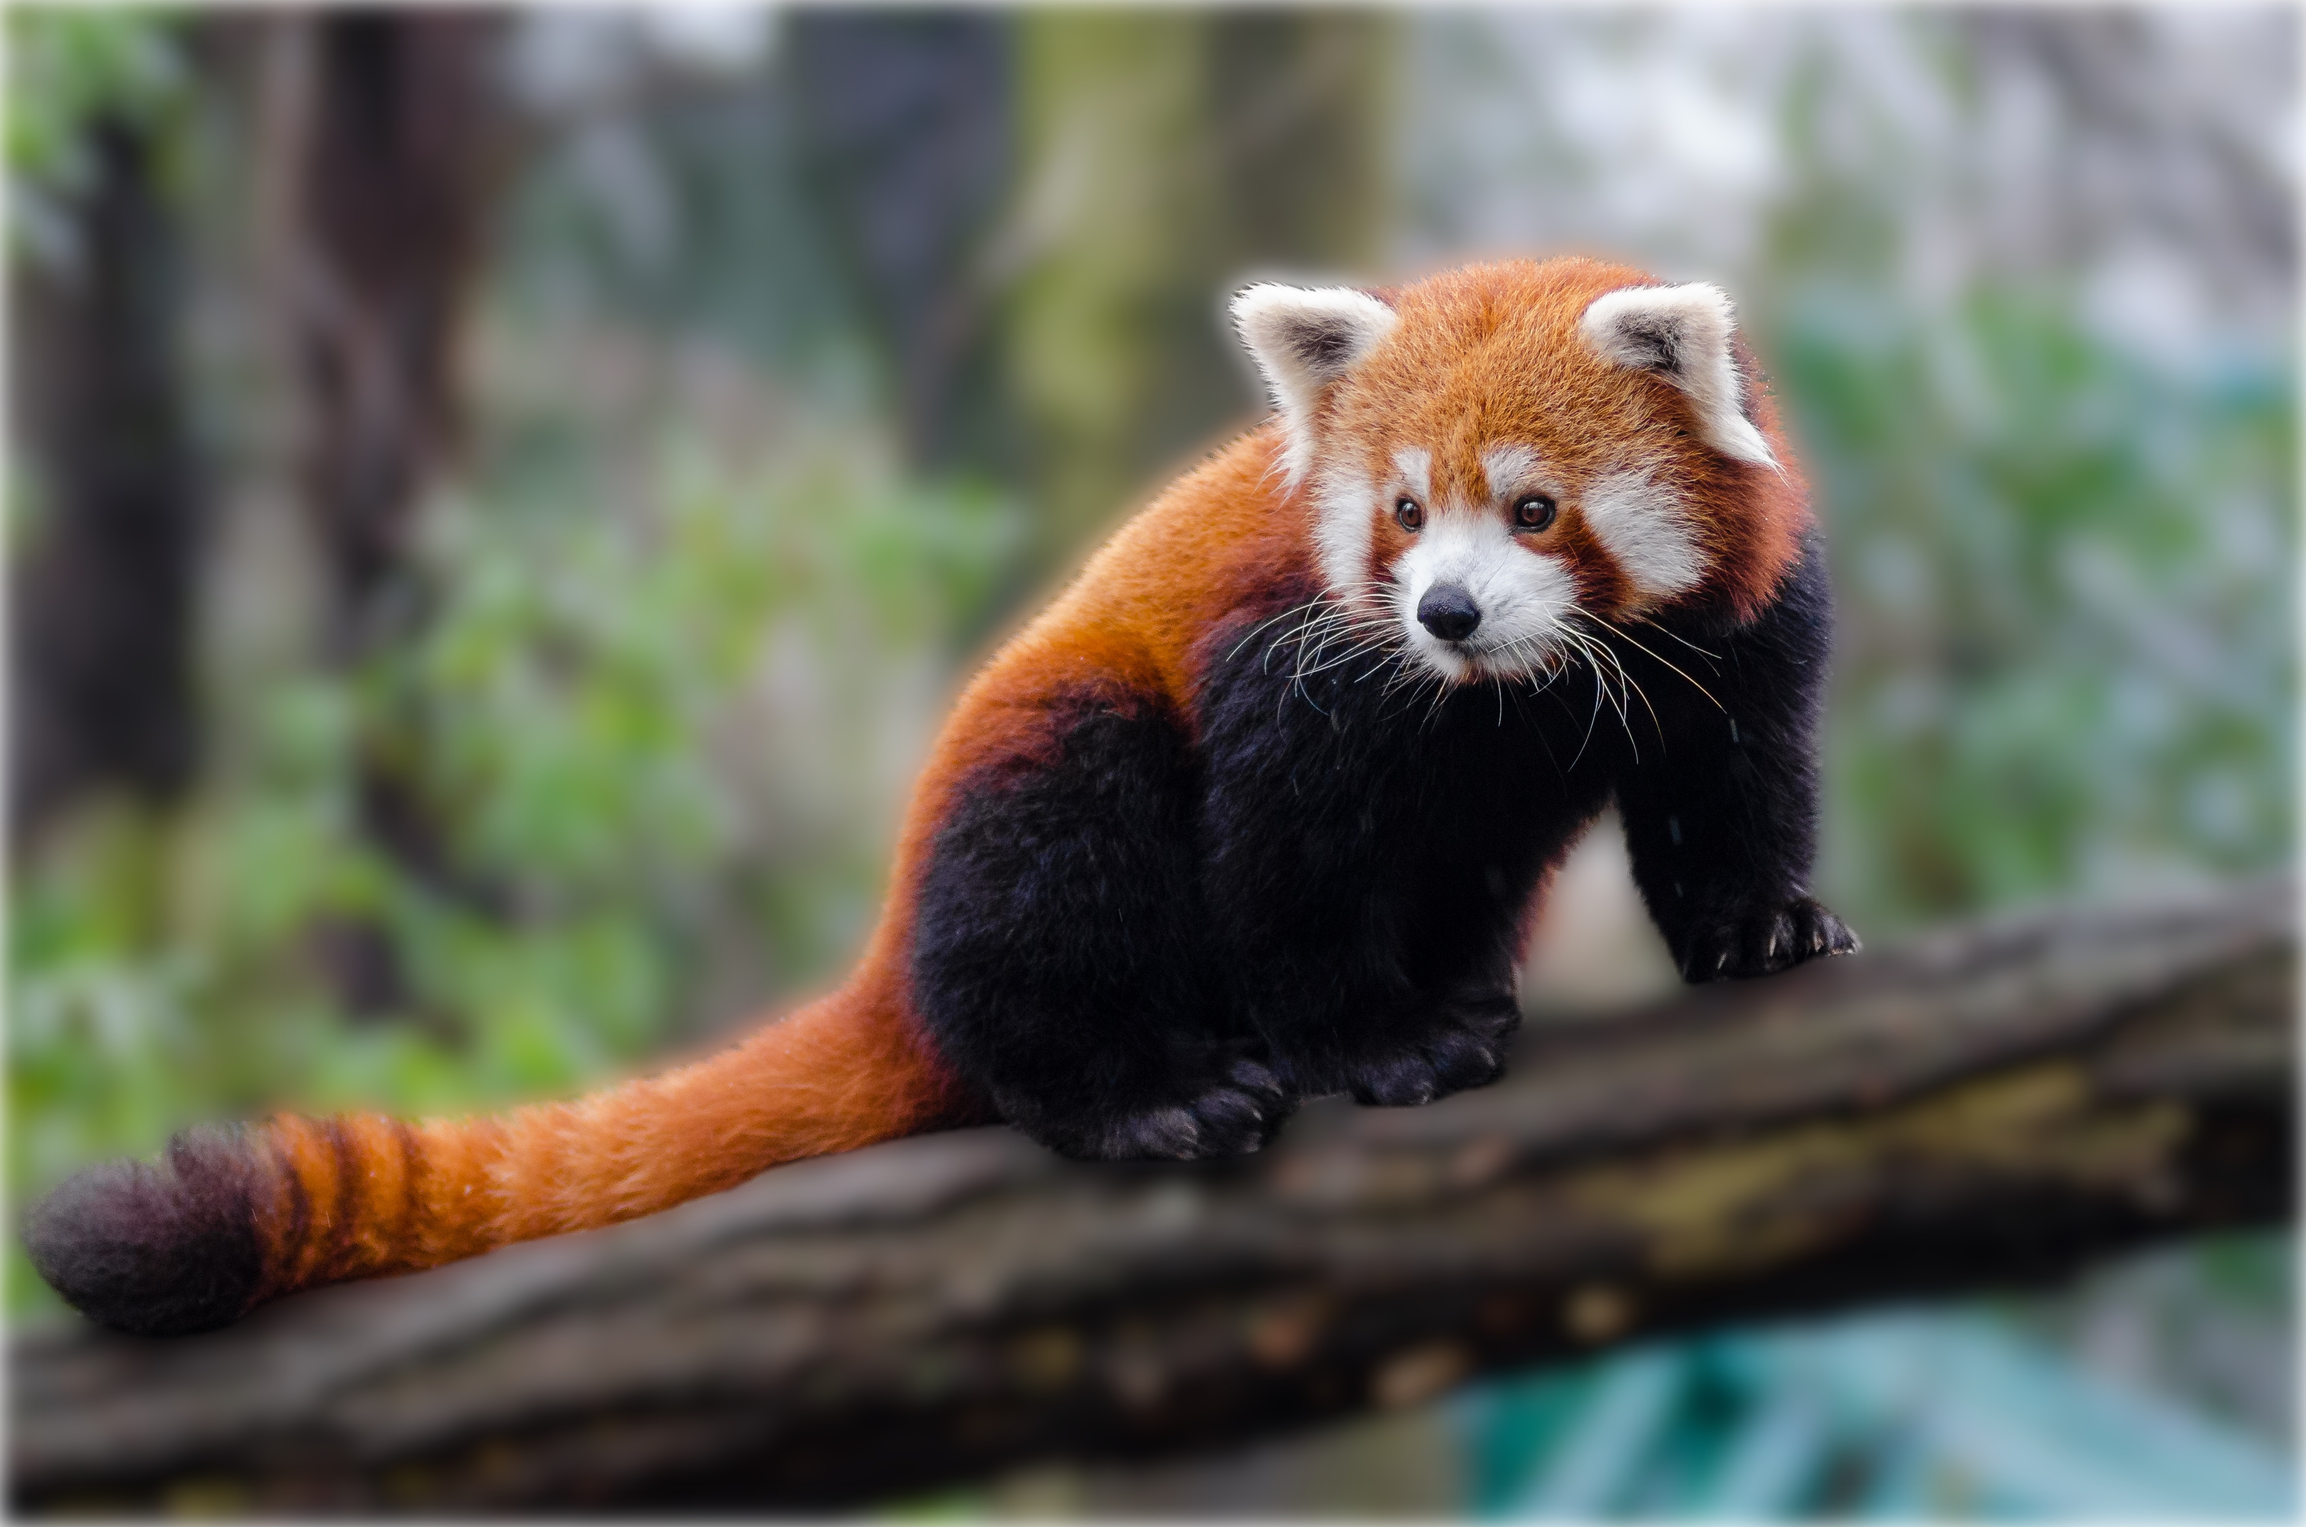
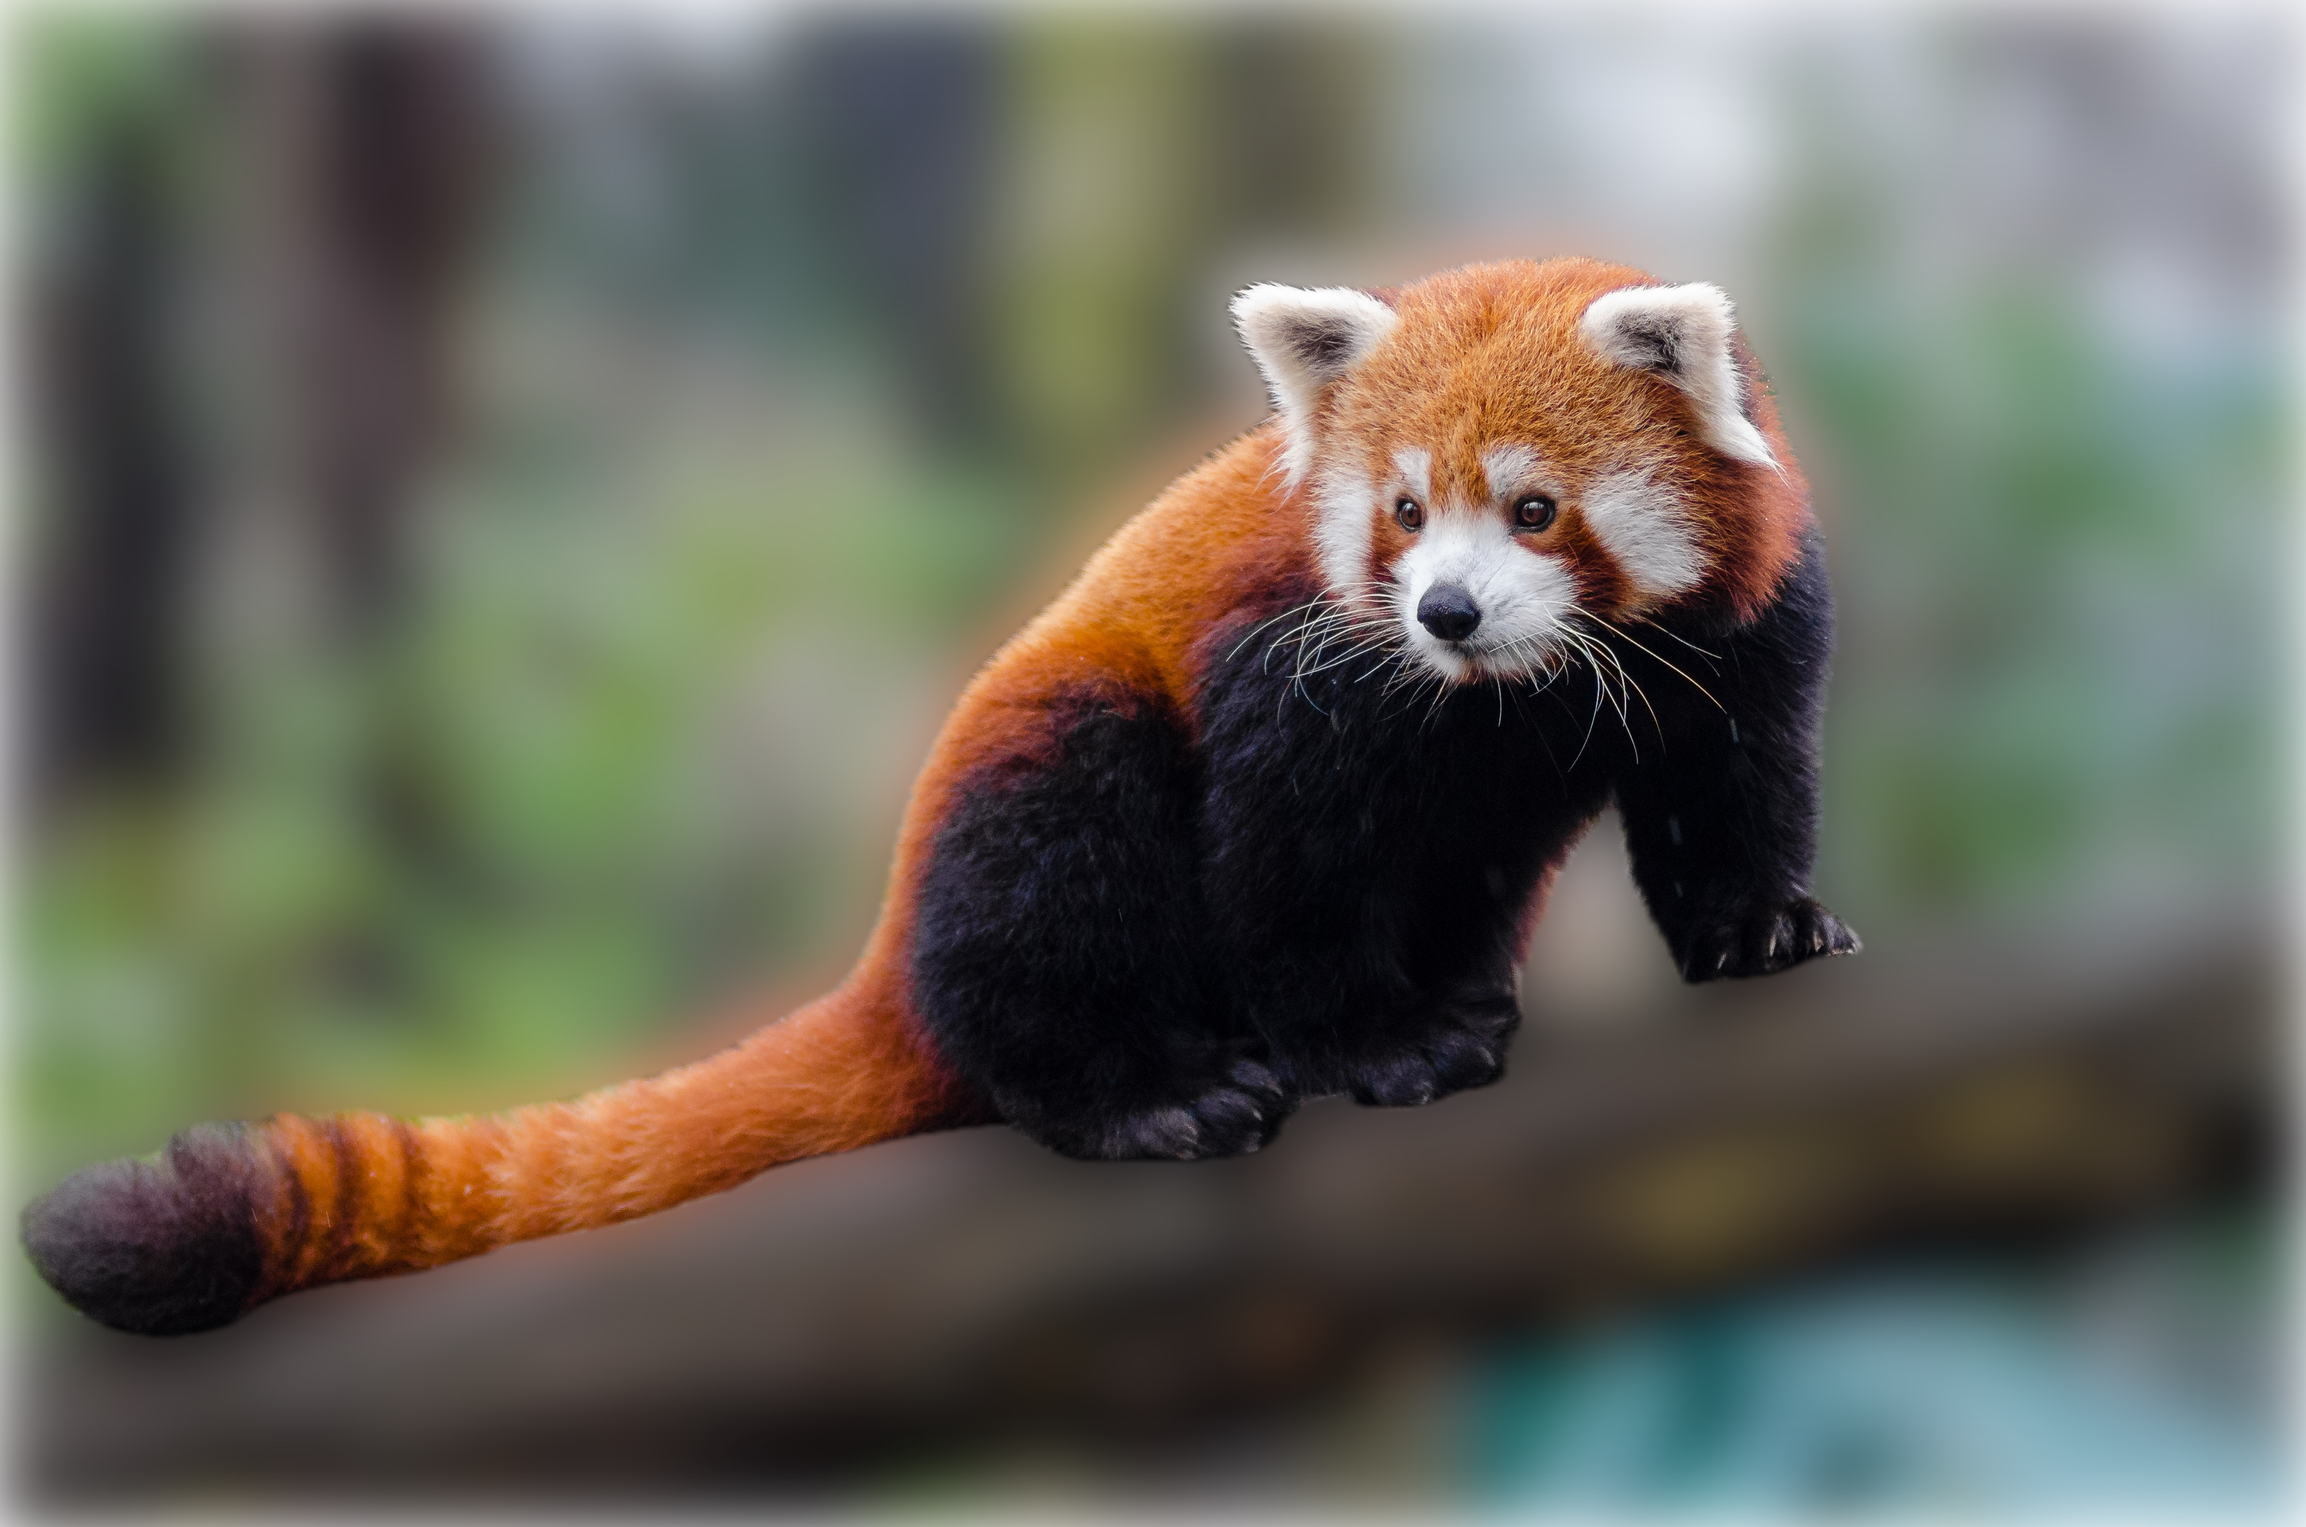
docs: full README sweep + hardcore lint + filter-showcase wired into make release
Every removed-flag reference in README (--feather/--threshold/--mask-only/
--scale/--position/--channels) replaced with the --filter equivalent. New
scripts/lint-readme.sh fails the build if any removed flag re-appears
(allows lines that explicitly document the removal). Wired into
make release as the first gate.

scripts/make-filter-showcase.sh added as a make target (filter-showcase);
make release now regenerates every showcase + per-filter asset against
the freshly-installed binary on every release.

Showcase 3 (sticker) now uses a dark navy bg so the white halo + drop
shadow are clearly visible against the plate (white halo was invisible
on white bg). Outline bumped to width=30, shadow to blur=40/offset=24,24/
opacity=0.85.

Showcase 4 (vintage) reworked as a real fg/bg split: bg gets full sepia
+ darken + desaturate (old-photo backdrop), fg keeps original colour
(modern subject in front), then a composite vignette. Demonstrates the
core bgbgone trick - per-layer transforms.

diff --git a/README.md b/README.md
@@ -122,37 +122,30 @@ bgbgone mona-lisa.jpg --bg image:./hokusai-great-wave.jpg    -o wave.jpg
 bgbgone mona-lisa.jpg --bg image:./mars-curiosity.jpg        -o mars.jpg
 ```
 
-### Edge refinement
+### Edge refinement (via `--filter`)
 
-`--feather <px>` softens the matte edge. `--crop` tight-crops to the subject's bounding box. `--padding` and `--crop-margin` add breathing room. `--roi` limits detection to a region. `--scale` and `--position` place the subject on the canvas. `--shadow` and `--shadow-type drop` add a shadow under the cutout. `--semitransparency false` hardens the matte so soft edges become opaque. `--mask-only` emits the grayscale alpha matte.
-
-![feather progression (0 to 16 px), --crop, --padding, --shadow, --mask-only](docs/images/showcase-edges.png)
+Mask shape and edge softness are tuned via the `--filter` chain (the old `--feather` / `--threshold` / `--mask-only` / `--scale` / `--position` flags were hard-removed in v1.0.0). `--crop` tight-crops to the subject's bounding box. `--padding` and `--crop-margin` add breathing room. `--roi` limits detection to a region. `--shadow` and `--shadow-type drop` add a shadow under the cutout. `--semitransparency false` hardens the matte so soft edges become opaque.
 
 ```bash
-bgbgone in.jpg --bg color:white --feather 8           -o soft.png
-bgbgone in.jpg --threshold 0.55                       -o crisper.png
-bgbgone in.jpg --crop                                 -o tight.png
-bgbgone in.jpg --crop --padding 10%                   -o tight-padded.png
-bgbgone in.jpg --crop --crop-margin "5% 10%"          -o api-padded.png
-bgbgone in.jpg --crop --crop-margin "5% 10% 15% 20%"  -o four-sided.png
-bgbgone in.jpg --roi "0% 0% 100% 80%"                 -o top-region.png
-bgbgone in.jpg --scale 75% --position center          -o centered.png
-bgbgone in.jpg --scale 50% --position "25% 75%"       -o lower-left.png
-bgbgone in.jpg --bg color:white --shadow              -o dropshadow.png
-bgbgone in.jpg --shadow-type drop --shadow-opacity 25 -o soft-shadow.png
-bgbgone in.jpg --shadow-type none                     -o no-shadow.png
-bgbgone in.jpg --semitransparency false               -o hard-edge.png
-bgbgone in.jpg --mask-only                            -o matte.png
-bgbgone in.jpg --channels alpha                       -o matte.png   # same as --mask-only
+bgbgone in.jpg --bg color:white --filter "mask:feather=8"      -o soft.png
+bgbgone in.jpg --filter "mask:threshold=0.55"                  -o crisper.png
+bgbgone in.jpg --crop                                          -o tight.png
+bgbgone in.jpg --crop --padding 10%                            -o tight-padded.png
+bgbgone in.jpg --crop --crop-margin "5% 10%"                   -o api-padded.png
+bgbgone in.jpg --crop --crop-margin "5% 10% 15% 20%"           -o four-sided.png
+bgbgone in.jpg --roi "0% 0% 100% 80%"                          -o top-region.png
+bgbgone in.jpg --filter "fg:scale=0.75"                        -o scaled.png
+bgbgone in.jpg --filter "fg:scale=0.5,translate=-200,200"      -o lower-left.png
+bgbgone in.jpg --bg color:white --shadow                       -o dropshadow.png
+bgbgone in.jpg --shadow-type drop --shadow-opacity 25          -o soft-shadow.png
+bgbgone in.jpg --shadow-type none                              -o no-shadow.png
+bgbgone in.jpg --semitransparency false                        -o hard-edge.png
+bgbgone in.jpg --filter "fg:matte"                             -o matte.png
+bgbgone in.jpg --filter "mask:expand=6"                        -o thicker-mask.png
+bgbgone in.jpg --filter "mask:contract=6"                      -o thinner-mask.png
 ```
 
-Closer look at the matte itself. `--mask-only` writes the grayscale alpha, and the compositor blends with that:
-
-![input, grayscale matte, composite](docs/images/mask-breakdown.png)
-
-Pixel-level zoom on the edge for `--feather 0` vs `--feather 8`:
-
-![--feather close-up](docs/images/feather-zoom.png)
+See [`docs/filters/`](docs/filters/) for the full per-filter deep-dives, and the [Filter showcase](#filter-showcase----filter-chain-in-action) section below for five end-to-end before/after examples.
 
 ### Algorithm selection
 
@@ -219,7 +212,7 @@ bgbgone team.jpg --multi --instance-naming "subject_{n:02}.{ext}" --out-dir ./pe
 
 The number of instances is decided by Vision. For tightly-grouped or touching subjects (e.g. an Apollo crew shoulder-to-shoulder) Vision returns one combined instance. For subjects with visible spatial gaps you get one file per subject.
 
-`--multi` is file-output only: it needs a file input stem for naming, cannot read image data from stdin, and cannot be combined with `-o` or `--mask-only`. If `--out-dir` is omitted, files are written beside the input image.
+`--multi` is file-output only: it needs a file input stem for naming and cannot read image data from stdin. If `--out-dir` is omitted, files are written beside the input image.
 
 ### Structured output
 
@@ -308,12 +301,12 @@ auge --classify /tmp/cut.jpg --top 5
 
 ### Product photography: every step
 
-For each vintage product fixture: source, then `--mask-only` matte, then transparent cutout, then composed onto a PD background. Same four-step pipeline, four different products.
+For each vintage product fixture: source, then `--filter "fg:matte"` matte, then transparent cutout, then composed onto a PD background. Same four-step pipeline, four different products.
 
 ![Products: source, mask-only, cutout, composed onto a PD background](docs/images/showcase-products.png)
 
 ```bash
-bgbgone pierce-arrow-1909.jpg --mask-only                          -o matte.png
+bgbgone pierce-arrow-1909.jpg --filter "fg:matte"                  -o matte.png
 bgbgone pierce-arrow-1909.jpg                                      -o cutout.png
 bgbgone pierce-arrow-1909.jpg --bg image:nasa-aldrin-moon.jpg      -o on-moon.png
 ```
@@ -336,7 +329,7 @@ done | jq -s 'group_by(.algo) | map({algo: .[0].algo, count: length})'
 Brand-coloured profile picture, tight-cropped, soft edge, high-quality JPEG:
 
 ```bash
-bgbgone selfie.jpg --bg color:#0066cc --crop --feather 2 \
+bgbgone selfie.jpg --bg color:#0066cc --crop --filter "mask:feather=2" \
     --to jpg --quality 95 -o linkedin-avatar.jpg
 ```
 
@@ -351,7 +344,7 @@ bgbgone team-portrait.jpg --multi \
 Doc-site product shot:
 
 ```bash
-bgbgone product.heic --bg color:white --crop --feather 1 \
+bgbgone product.heic --bg color:white --crop --filter "mask:feather=1" \
     --to jpg --quality 92 -o ./docs/product-shot.jpg
 ```
 
@@ -403,40 +396,40 @@ Run `bgbgone --filters-list` to enumerate every filter with its valid layers, si
 ### 1. Colour-pop — original background goes B&W, subject keeps its colour
 
 ```bash
-bgbgone red-panda.jpg --bg "image:red-panda.jpg" --filter "bg:grayscale" -o colourpop.jpg
+bgbgone red-panda.jpg --filter "bg:grayscale" -o colourpop.jpg
 ```
 
 | Before (original photo) | After (colour-pop) |
 |---|---|
 | ![panda original](docs/images/showcase/01-panda-before.jpg) | ![panda colour-pop](docs/images/showcase/01-panda-colourpop.jpg) |
 
-The trick: pass the source photo as **both subject AND background plate** (`--bg image:<self>`). The pipeline extracts the subject via Apple Vision, runs `bg:grayscale` (CIColorControls with saturation 0) on the background plate only, then composites the colour subject back on top. Subject stays vibrantly red-orange; the forest behind goes monochrome.
+When the filter chain uses the `bg` layer but no `--bg image:...` is set, bgbgone auto-promotes the source photo as the background plate. The pipeline extracts the subject via Apple Vision, runs `bg:grayscale` (CIColorControls with saturation 0) on the background plate only, then composites the colour subject back on top. Subject stays vibrantly red-orange; the forest behind goes monochrome. The explicit form `--bg image:red-panda.jpg --filter "bg:grayscale"` produces the same output.
 
 ### 2. Portrait mode — silky background blur, sharp subject
 
 ```bash
-bgbgone red-panda.jpg --bg "image:red-panda.jpg" --filter "bg:blur=22" -o portrait.jpg
+bgbgone red-panda.jpg --filter "bg:blur=60" -o portrait.jpg
 ```
 
 | Before (original photo) | After (portrait mode) |
 |---|---|
 | ![panda original](docs/images/showcase/01-panda-before.jpg) | ![panda portrait mode](docs/images/showcase/02-panda-portraitmode.jpg) |
 
-Same self-as-background trick. `CIGaussianBlur` runs on the background plate only; the foreground stays pin-sharp. Phone-camera portrait mode in one shell command.
+`CIGaussianBlur` at radius 60 runs on the background plate only; the foreground stays pin-sharp. Note: no `--bg` flag needed — when a chain uses the `bg` layer, bgbgone auto-promotes the source image as the background plate. Phone-camera portrait mode in one shell command.
 
-### 3. Sticker style — coloured outline + drop shadow on transparent
+### 3. Sticker style — thick white halo + big drop shadow on white background
 
 ```bash
-bgbgone corgi.jpg \
-  --filter "fg:outline=color=#fff:width=6,shadow=blur=14:offset=6,6:opacity=0.55:color=#000" \
-  -o corgi-sticker.png
+bgbgone corgi.jpg --bg color:white \
+  --filter "fg:shadow=blur=30:offset=20,20:opacity=0.7:color=#000,outline=color=#fff:width=24" \
+  -o corgi-sticker.jpg
 ```
 
-| Cutout | Sticker |
+| Before (on white) | After (sticker) |
 |---|---|
-| ![corgi cutout](docs/images/showcase/03-corgi-cutout.png) | ![corgi sticker](docs/images/showcase/03-corgi-sticker.png) |
+| ![corgi on white](docs/images/showcase/03-corgi-before.jpg) | ![corgi sticker](docs/images/showcase/03-corgi-sticker.jpg) |
 
-`CIMorphologyMaximum` dilates the matte for the white halo; `CIGaussianBlur` + `CIAffineTransform` produces the drop shadow. Chain order matters: outline first, shadow under it. Output is RGBA PNG.
+`CIMorphologyMaximum` dilates the matte by 24 px for a thick white halo; `CIGaussianBlur` + `CIAffineTransform` produce a big offset drop shadow (30 px blur, 20 px down-right, 70% opacity). Chain order matters: shadow rendered first so the outline overpaints the inner edge cleanly.
 
 ### 4. Vintage finish — sepia + vignette on the original photo
 
@@ -518,16 +511,13 @@ BACKGROUND:
   --bg-fit cover|contain|tile|center    fit mode for image backgrounds
 
 MATTE / EDGE:
-  --mask-only                           output the alpha mask only
-  --channels rgba|alpha                 finalized image or alpha mask
-  --feather <px>                        edge softening (default: 1)
-  --threshold <0..1>                    mask binarisation
+  --channels rgba|alpha                 finalized image or alpha mask (server compat)
   --padding <px|N%>                     extra space around subject
   --crop-margin <1|2|4 values>          API-style crop margins (px or %)
   --crop                                tight-crop to subject bbox
   --roi "x1 y1 x2 y2"                   region of interest, px or %
-  --scale <10%..100%|original>          scale subject on the canvas
-  --position <center|x% y%|original>    place scaled subject on canvas
+  --filter "fg:scale=F"                 scale subject on the canvas (replaces removed --scale)
+  --filter "fg:translate=dx,dy"         place subject on canvas (replaces removed --position)
   --semitransparency true|false         keep or harden semi-transparent matte pixels
   --shadow                              drop shadow under cutout
   --shadow-type auto|drop|3D|car|none   shadow compatibility selector
@@ -552,7 +542,7 @@ OUTPUT:
 ROUTING RULES:
   -o and --out-dir are mutually exclusive
   stdin input requires stdout or -o; --out-dir needs file inputs
-  --multi writes files; it cannot combine with -o or --mask-only
+  --multi writes files; it cannot combine with -o
 
 SERVER:
   --server                             run local HTTP API
@@ -588,7 +578,7 @@ Config
    │
    ▼                        BgBgOne pipeline
    ├─→ ForegroundMask       Algorithms/: VNMask, Person, Saliency
-   ├─→ MaskPostProcess      threshold, feather, ROI, crop, padding, --mask-only
+   ├─→ MaskPostProcess      ROI, crop, padding (mask shape/edge via --filter "mask:..." / "fg:matte")
    ├─→ Compositor           SolidColor + ImageBg
    └─→ Output               ImageIO: PNG/JPG/HEIC/AVIF/TIFF + ZIP package
 HTTP server ───────────────→ same pipeline, multipart/JSON/form uploads, JSON/base64 option
